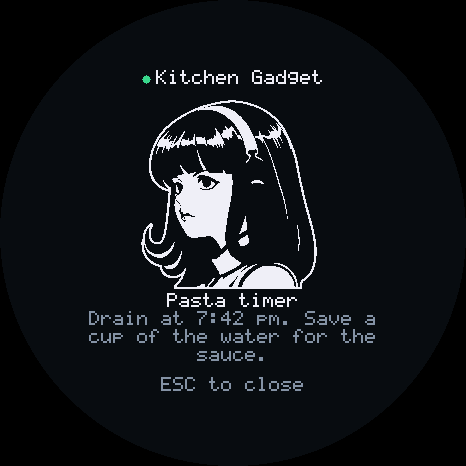
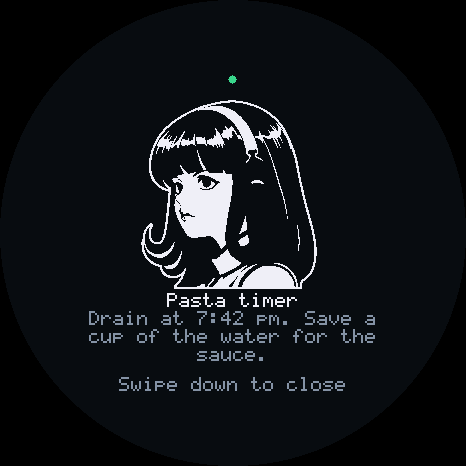
Round faces show only the status dot; README screenshots use the default name

Changed region(s): [[0.2403, 0.8112, 0.7511, 0.8412], [0.3004, 0.1502, 0.5107, 0.1803], [0.5408, 0.1502, 0.691, 0.1803]]

diff --git a/firmware/core/src/ui.cpp b/firmware/core/src/ui.cpp
@@ -267,12 +267,9 @@ void Ui::draw_top(Canvas& c, const UiModel& m) {
   }
   int ty = s;
   if (panel_.round) {
-    // A round face has no corners: the link dot and the name, centred.
+    // A round face stays quiet: just the link dot, centred, like a watch's status mark.
     int r = std::max(2, 3 * s / 2 + 1);
-    std::string title = fit(m.title, cols_for(w - 6 * s - 2 * r, s));
-    int x = (w - (2 * r + 3 * s + Canvas::text_width(title, s))) / 2;
-    c.fill_circle(x + r, layout_.top_h / 2, r, dot);
-    c.text(x + 2 * r + 3 * s, ty, title, s, kText);
+    c.fill_circle(w / 2, layout_.top_h / 2, r, dot);
     return;
   }
   int label_w = Canvas::text_width(label, s);

diff --git a/tools/capture_window.py b/tools/capture_window.py
@@ -209,7 +209,7 @@ def main() -> None:
         return None
 
     hub.delegate.on_utterance = quiet
-    sim = Simulator(url=f"ws://127.0.0.1:{hub.bound_port}/gadget", state_dir=state / "dev", name="Kitchen Gadget",
+    sim = Simulator(url=f"ws://127.0.0.1:{hub.bound_port}/gadget", state_dir=state / "dev", name="Hermes Gadget",
                     board=args.board)
     win = Recorder(sim, hub, loop, args.zoom, Path(args.frames) if args.frames else None)
     win.root.after(500, win.advance)
